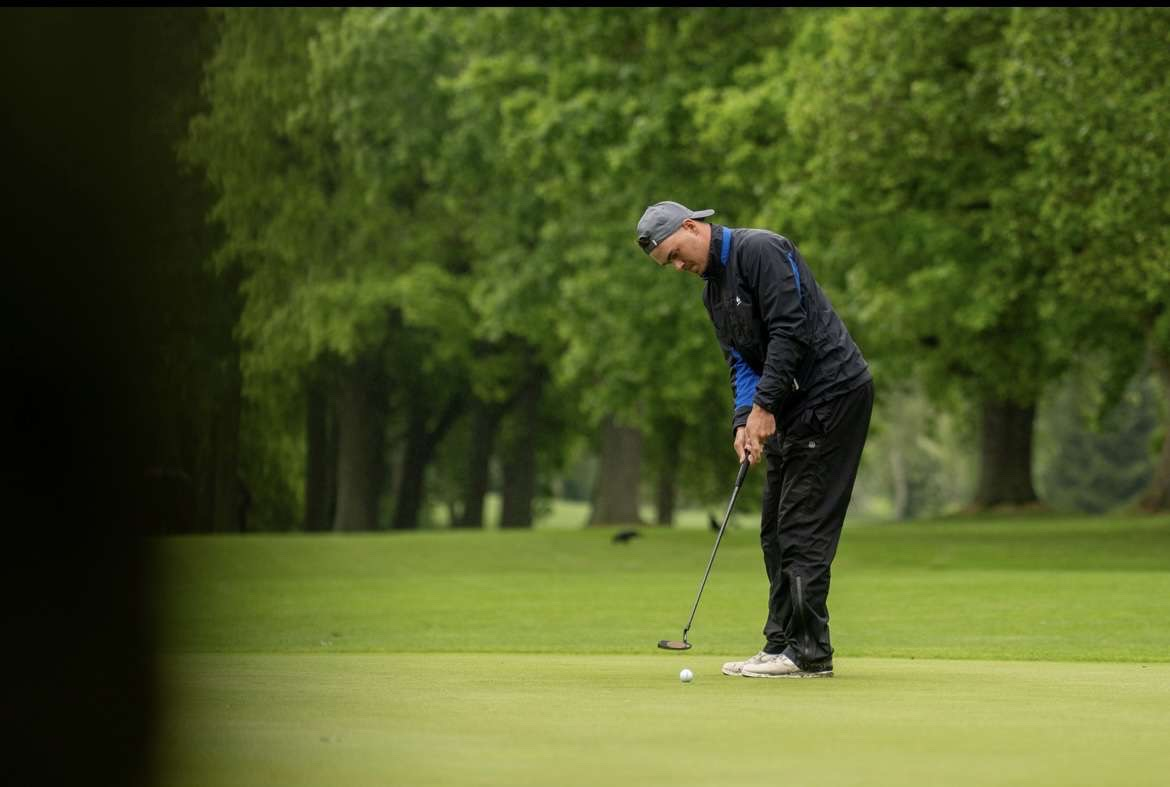
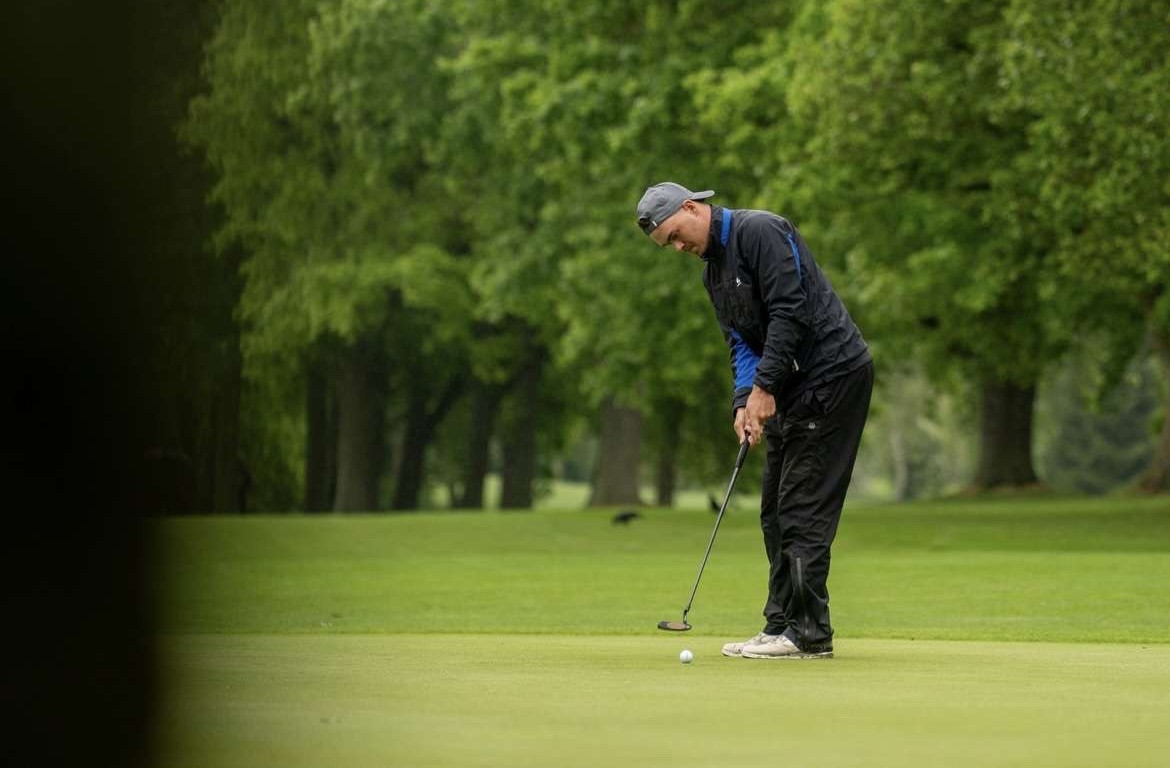
sponsor done

diff --git a/app/Sponsor/page.tsx b/app/Sponsor/page.tsx
@@ -5,50 +5,58 @@ export default function Sponsors() {
   const packages = [
     {
       name: "Bronze",
-      price: "2.500 kr.",
+      price: "5.000 kr.",
       period: "/ år",
       color: "from-amber-700 to-amber-500",
       border: "border-amber-400",
       badge: "bg-amber-100 text-amber-800",
       features: [
-        "Logo på min golfbag",
-        "Nævnelse på sociale medier (2x/år)",
-        "Tak i turneringsprogrammer",
-        "Digitalt sponsorcertifikat",
+        "Fremhævet eksponering på mine facebook opslag - og på min hjemmeside",
       ],
       highlight: false,
     },
     {
       name: "Sølv",
-      price: "6.000 kr.",
+      price: "10.000 kr.",
       period: "/ år",
       color: "from-slate-500 to-slate-400",
       border: "border-slate-400",
       badge: "bg-slate-100 text-slate-700",
       features: [
-        "Alt i Bronze-pakken",
-        "Logo på golftrøje (ærme)",
-        "Månedlige opdateringer og resultater",
-        "Nævnelse på sociale medier (6x/år)",
-        "Foto med sponsor ved turneringer",
+        "Invitation til årligt sponsorarrangement — 18 huller, mad & drikke (1-3 pers.)",
+        "Fremhævet eksponering på mine facebook opslag - og på min hjemmeside",
       ],
       highlight: true,
     },
     {
       name: "Guld",
-      price: "12.000 kr.",
+      price: "20.000 kr.",
       period: "/ år",
       color: "from-yellow-500 to-yellow-400",
       border: "border-yellow-400",
       badge: "bg-yellow-100 text-yellow-800",
       features: [
-        "Alt i Sølv-pakken",
-        "Stort logo på golftrøje (bryst)",
-        "Logo på cap og taske",
-        "Ugentlige opdateringer og resultater",
-        "Eksklusiv omtale på sociale medier",
-        "VIP-invitation til udvalgte turneringer",
-        "Personligt møde og netværksmuligheder",
+        "Logo på cap eller venstre ærme",
+        "Én årlig konsultation vedrørende hvordan jeg kan hjælpe med ekstra branding af din virksomhed",
+        "Invitation til årligt sponsorarrangement — 18 huller, mad & drikke (1-4 pers.)",
+        "Fremhævet eksponering på mine facebook opslag - og på min hjemmeside",
+      ],
+      highlight: false,
+    },
+    {
+      name: "🎉 Hovedsponsor 🎉",
+      price: "50.000 kr.",
+      period: "/ år",
+      color: "from-blue-900 to-blue-700",
+      border: "border-blue-400",
+      badge: "bg-blue-100 text-blue-900",
+      features: [
+        "Logo på højre ærme",
+        "Én årlig golfrunde med mig på Great Northern — mad & drikke efter runden samt tips og tricks undervejs (1-3 pers.)",
+        "Én årlig konsultation vedrørende hvordan jeg kan hjælpe med ekstra branding af din virksomhed",
+        "Invitation til årligt sponsorarrangement — 18 huller, mad & drikke (1-4 pers.)",
+        "Fremhævet eksponering på mine facebook opslag - og på min hjemmeside",
+        "Yderligere goder kan aftales"
       ],
       highlight: false,
     },
@@ -69,12 +77,12 @@ export default function Sponsors() {
               på baner i hele Danmark – og forhåbentlig snart internationalt.
             </p>
             <p className="text-gray-600 leading-relaxed mt-4">
-              Som sponsor får du synlighed på tøj, udstyr og sociale medier, og
-              du bliver en del af min rejse mod toppen af dansk og international
-              amatørgolf.
+              Som sponsor kan du få eksponering på tøj og sociale medier, og du
+              bliver en del af min rejse mod toppen af dansk og international
+              golf.
             </p>
             <a
-              href="mailto:mpgfolf@gmail.com"
+              href="mailto:magnusrudpetersen03@gmail.com"
               className="inline-block mt-6 bg-gray-800 text-white text-sm font-semibold px-6 py-3 rounded-xl hover:bg-gray-700 transition"
             >
               Kontakt mig
@@ -102,7 +110,7 @@ export default function Sponsors() {
             Sponsorpakker
           </h2>
 
-          <div className="grid md:grid-cols-3 gap-8 items-stretch">
+          <div className="grid md:grid-cols-4 gap-8 items-stretch">
             {packages.map((pkg) => (
               <div
                 key={pkg.name}
@@ -135,7 +143,7 @@ export default function Sponsors() {
                 </div>
 
                 <div className="p-8 flex flex-col flex-1">
-                  <ul className="space-y-3 flex-1">
+                  <ul className="space-y-4 flex-1">
                     {pkg.features.map((feature) => (
                       <li
                         key={feature}
@@ -170,14 +178,22 @@ export default function Sponsors() {
               Ønsker du en skræddersyet aftale?
             </p>
             <p className="text-gray-800 font-semibold text-base mb-4">
-              Kontakt mig direkte — jeg finder en løsning der passer til dig.
+              Kontakt mig direkte — så finder vi en løsning der passer til dig.
             </p>
-            <a
-              href="mailto:mpgfolf@gmail.com"
-              className="inline-block bg-blue-400 text-white text-sm font-semibold px-6 py-3 rounded-xl hover:bg-gray-700 transition"
-            >
-              mpgfolf@gmail.com
-            </a>
+            <div className="grid md:grid-cols-1 gap-4">
+              <a
+                href="mailto:mpgfolf@gmail.com"
+                className="inline-block bg-blue-400 text-white text-sm font-semibold px-6 py-3 rounded-xl hover:bg-gray-700 transition"
+              >
+                magnusrudpetersen03@gmail.com
+              </a>
+              <a
+                href="tel:+4561132199"
+                className="inline-block bg-blue-400 text-white text-sm font-semibold px-6 py-3 rounded-xl hover:bg-gray-700 transition"
+              >
+                +45 61 13 21 99
+              </a>
+            </div>
           </div>
         </div>
       </div>

diff --git a/app/About/page.tsx b/app/About/page.tsx
@@ -1,5 +1,5 @@
 import Image from "next/image";
-import MP6 from "../images/MP6.jpeg"
+import MP8 from "../images/MP8.jpeg"
 import SponsorBtn from "../components/sponsorBtn";
 
 export default function About() {
@@ -37,7 +37,7 @@ export default function About() {
         {/* Billede */}
         <div className="relative w-full h-[400px] md:h-[500px]">
           <Image
-            src={MP6}
+            src={MP8}
             alt="Magnus billede"
             fill
             sizes="(max-width: 600px) 100vw, 50vw"
